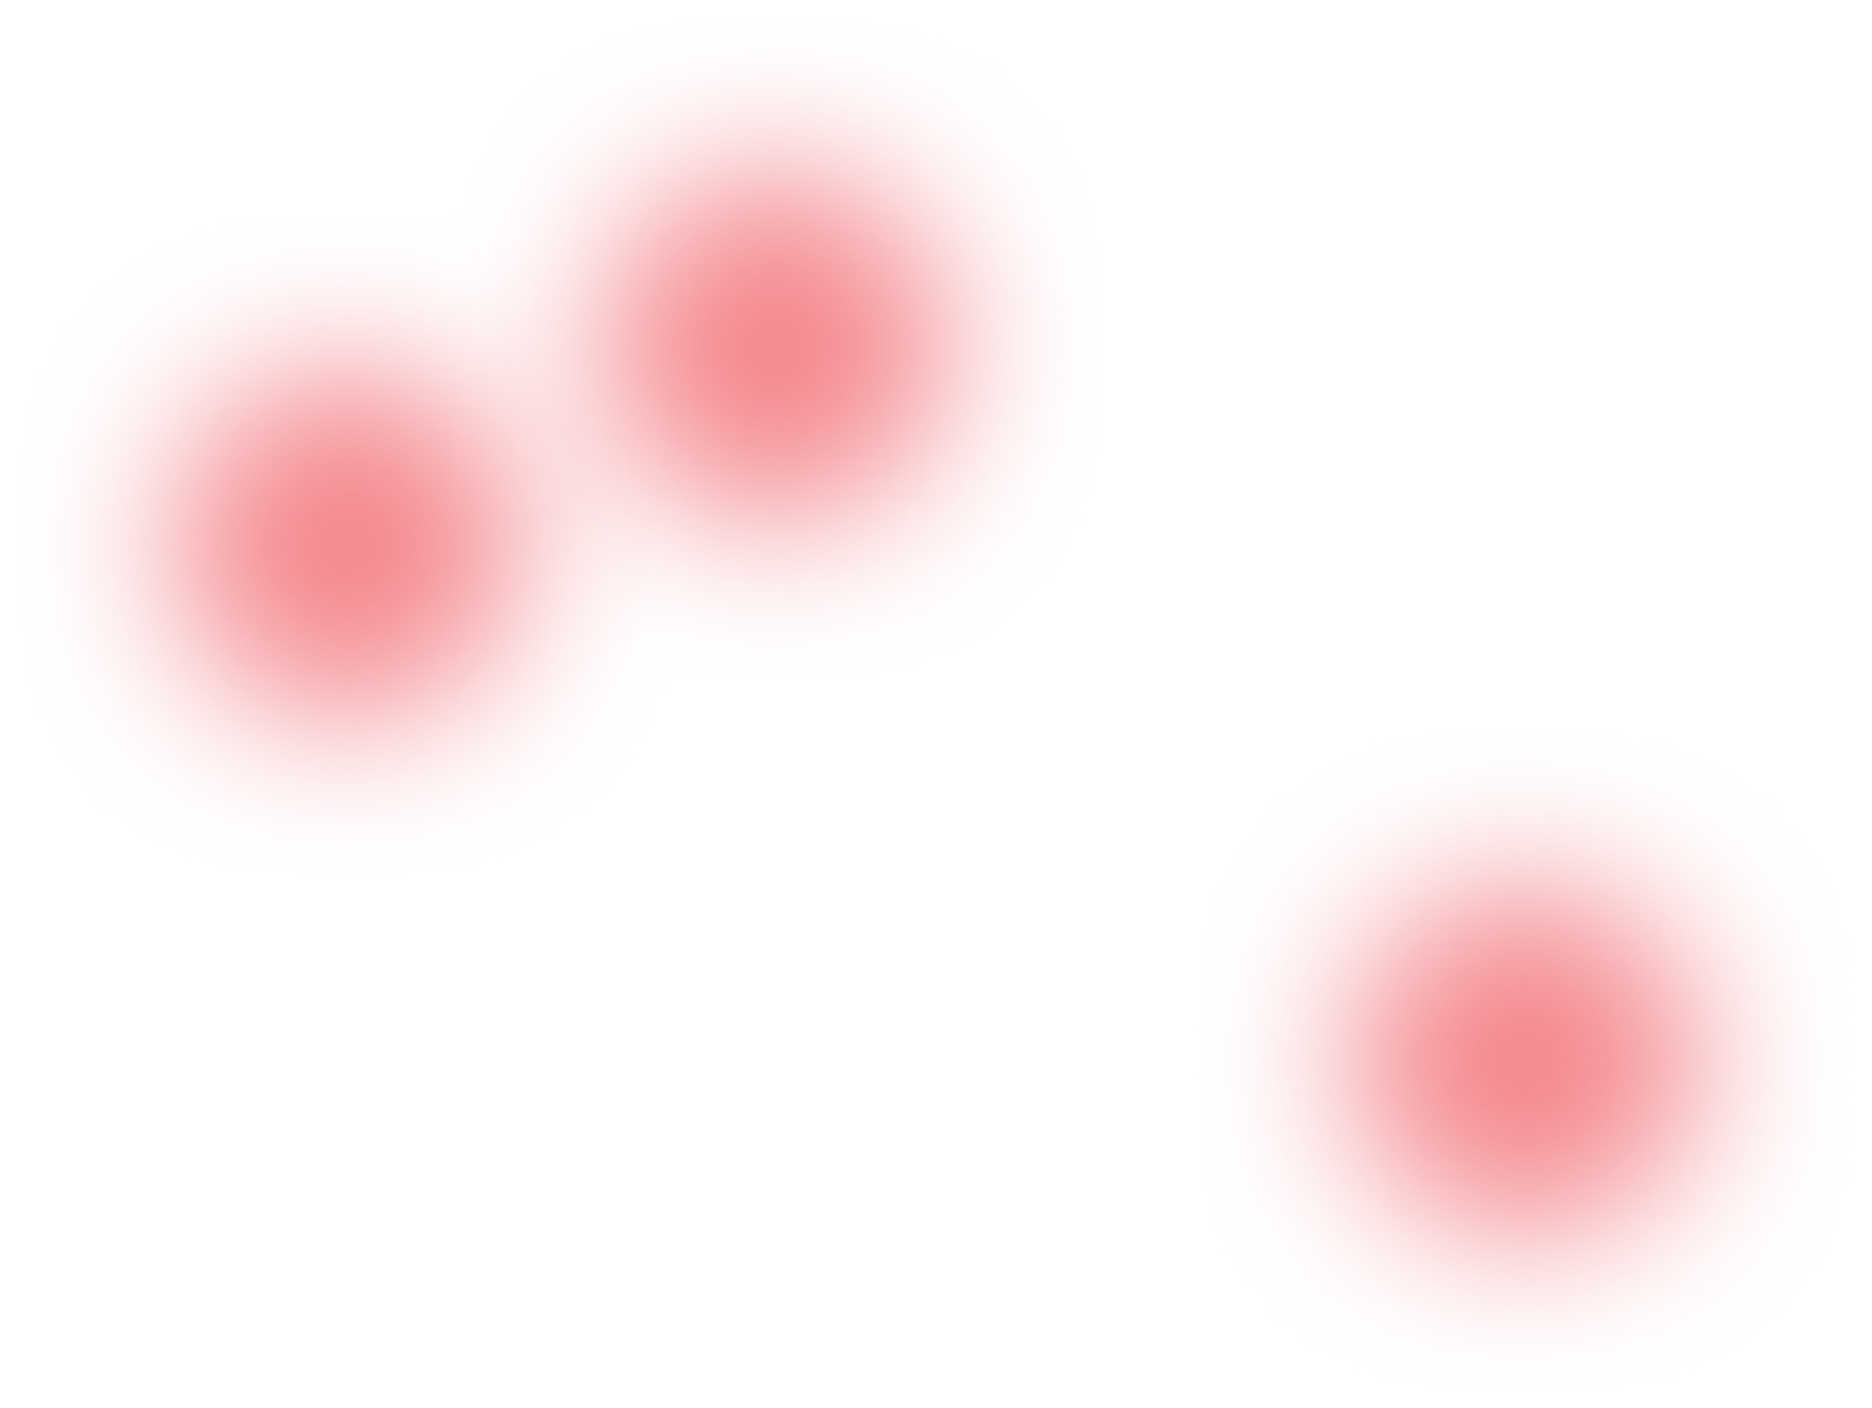
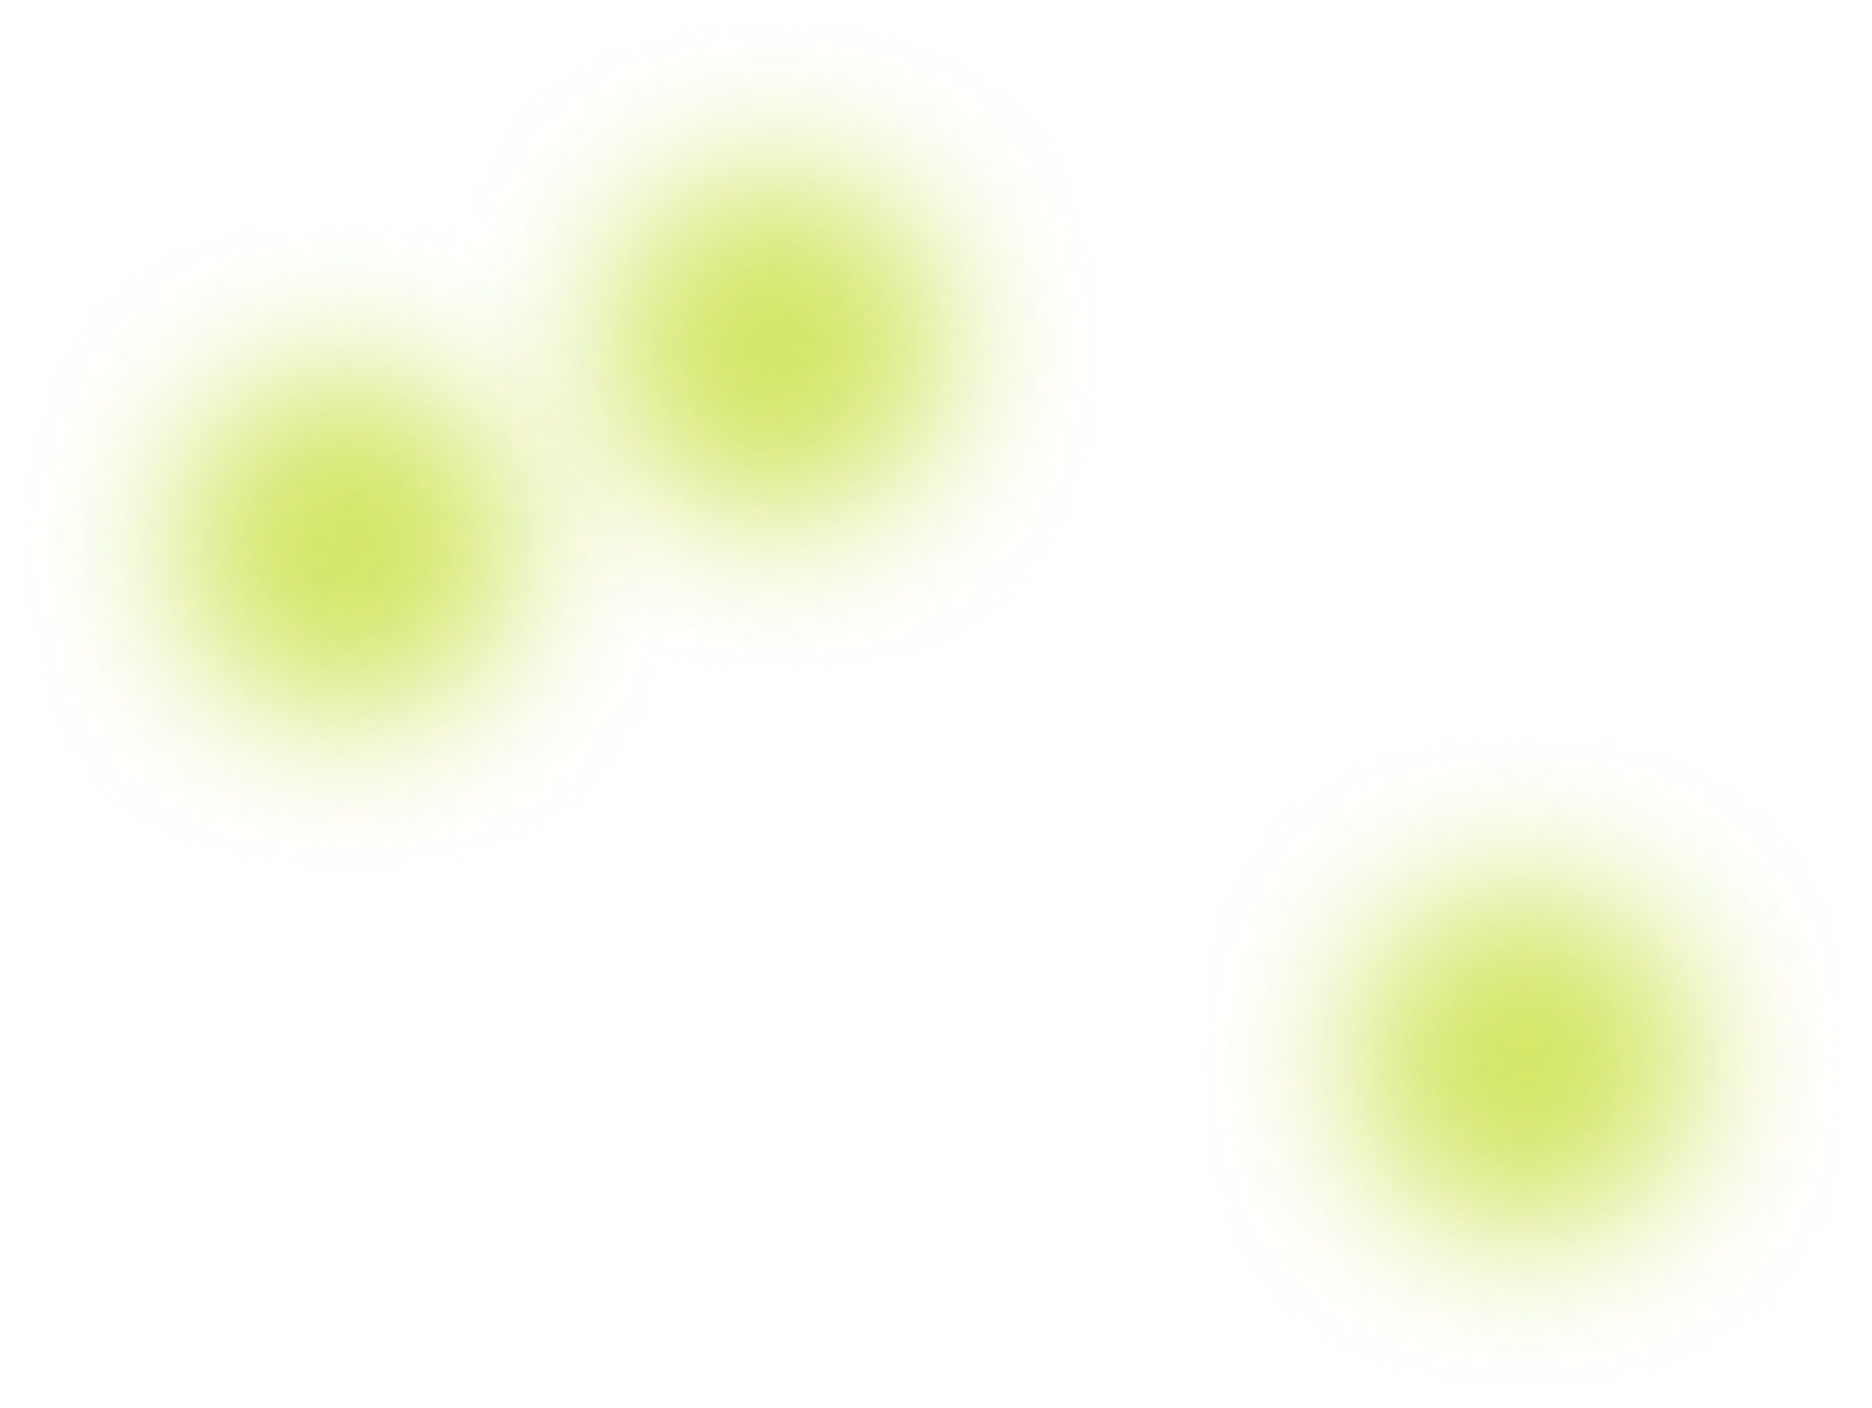
color fix, and bg fix

Changed region(s): [[0.062, 0.0938, 0.5267, 0.5312], [0.6816, 0.5938, 0.9295, 0.9062]]

diff --git a/src/css/covers.css b/src/css/covers.css
@@ -3,9 +3,10 @@
     width: 375px;
     height: 508px;
 
-    background-image: url(../images/background-theme/covers-bg.png);
+    background-image: url(../images/background-theme/covers-bg.png),
+    url(../images/background-theme/covers-bg.png);
     background-repeat: no-repeat;
-    background-position: -57px 33px;
+    background-position: -57px 33px, 204px -134px;
     background-size: 822px 625px;
 }
 
@@ -109,7 +110,8 @@
         width: 768px;
         height: 960px;
 
-        background-position: -102px 33px;
+        background-position: 4px 33px,
+            741px -21px;
         background-size: 1082px 802px;
     }
 
